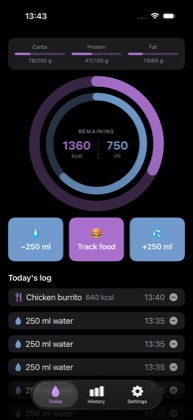
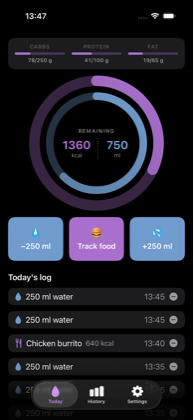
Restyle the macro panel labels and figures
- Macro names go uppercase, with light tracking so the caps do not look
  cramped, matching the REMAINING caption inside the rings
- Figures are bold and take the stronger of the two tones; the names step
  back to tertiary

Tone is expressed as secondary/tertiary rather than a fixed grey, so the
figure stays the more prominent of the pair in both appearances — brighter
than its label in dark, darker than it in light.

diff --git a/HydroHomie/Views/MacroPanel.swift b/HydroHomie/Views/MacroPanel.swift
@@ -27,15 +27,19 @@ struct MacroPanel: View {
 
     private func column(_ name: String, value: Double, goal: Double) -> some View {
         VStack(spacing: 5) {
-            Text(name)
-                .font(.caption)
-                .foregroundStyle(.secondary)
+            Text(name.uppercased())
+                .font(.caption2.weight(.semibold))
+                // Tracking keeps the caps from looking cramped, matching the
+                // REMAINING caption inside the rings.
+                .tracking(0.8)
+                .foregroundStyle(.tertiary)
 
             bar(progress: HydrationStore.progress(consumed: value, goal: goal))
 
             Text("\(Int(value.rounded()))/\(Int(goal.rounded())) g")
-                .font(.caption2)
+                .font(.caption2.bold())
                 .monospacedDigit()
+                // The figure outranks its label, so it takes the stronger tone.
                 .foregroundStyle(.secondary)
         }
         // Equal widths regardless of how long the name or the figures are.
